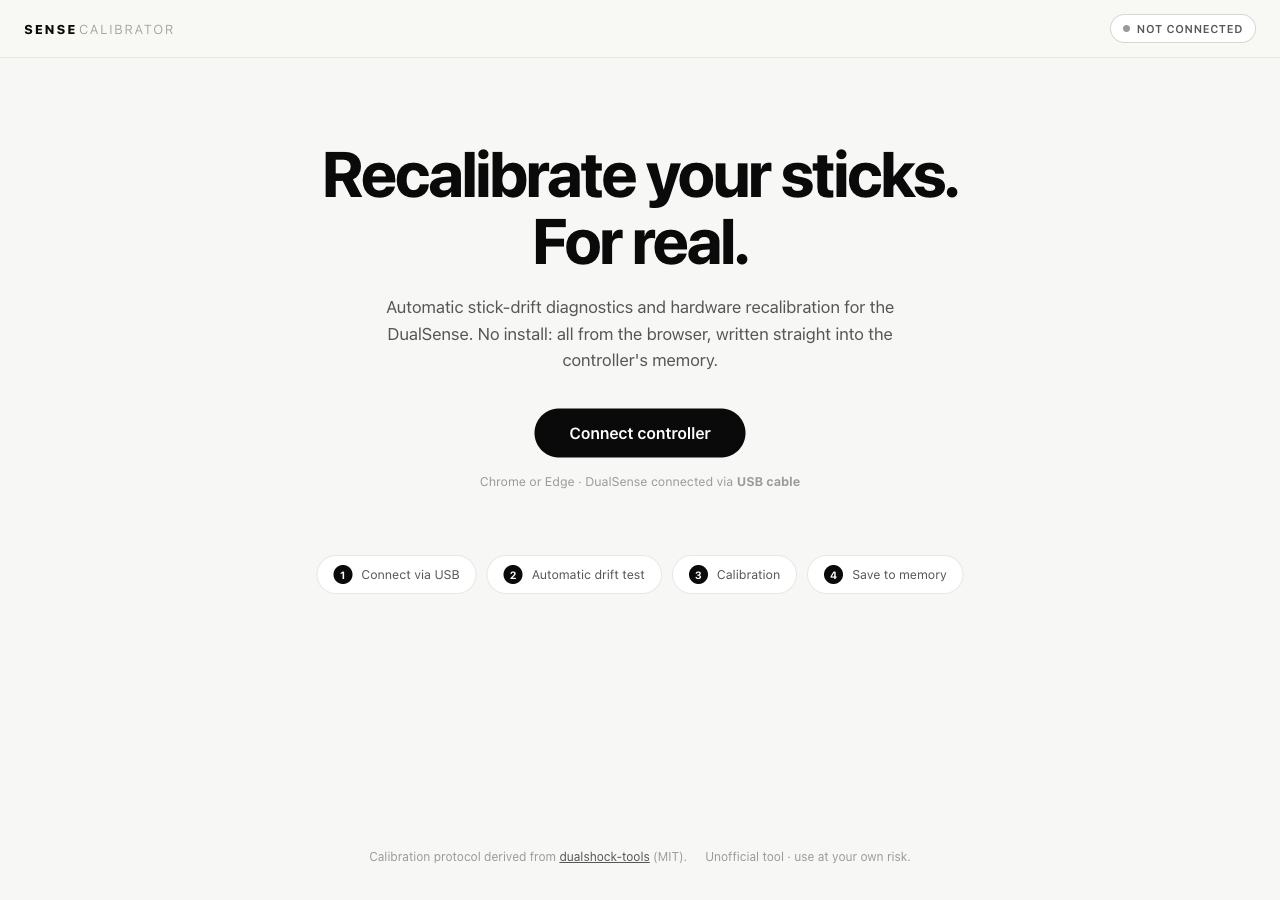
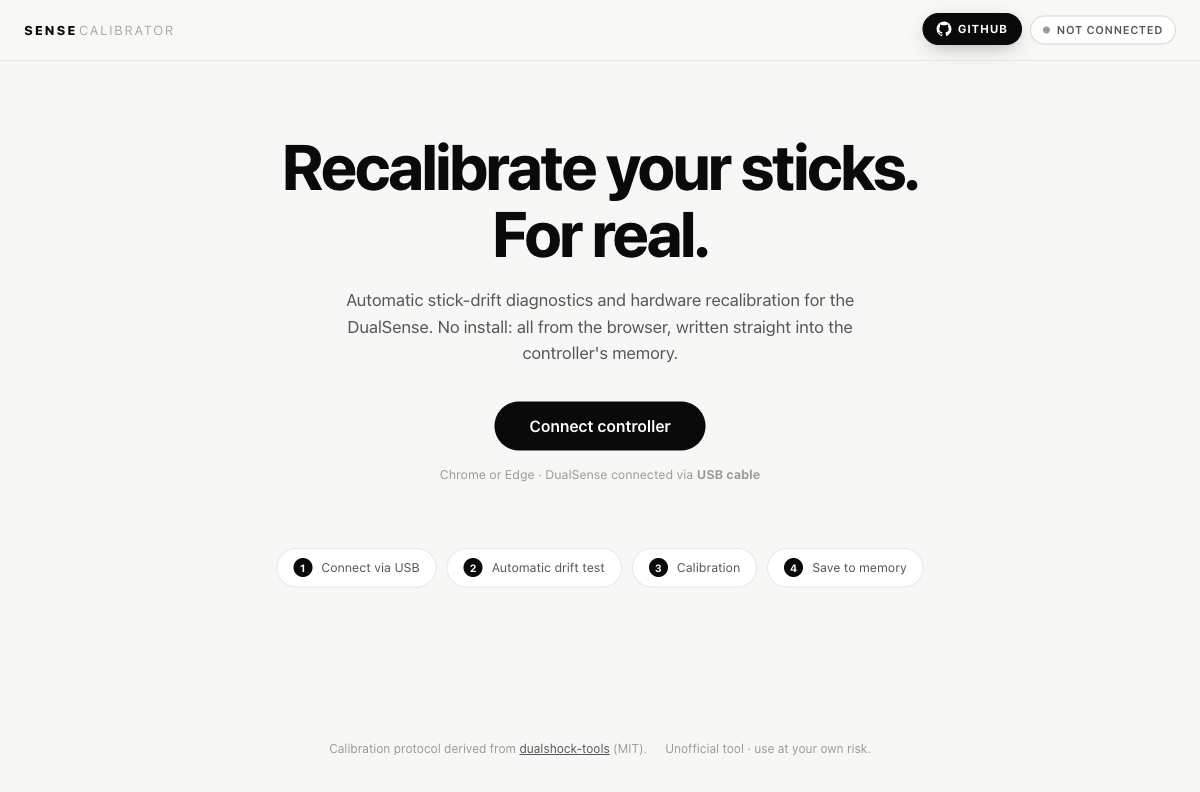
feat: add a GitHub source button to the app header
Evident dark pill (octocat + "GitHub") in the topbar linking to the repo,
so the hosted tool points back to its source. Refresh the landing screenshot.

diff --git a/css/style.css b/css/style.css
@@ -96,6 +96,27 @@ main {
 .chip.chip-on { color: var(--ink); border-color: var(--ink); }
 .chip.chip-warn { background: var(--ink); color: #fff; border-color: var(--ink); }
 
+.gh-chip {
+  display: inline-flex;
+  align-items: center;
+  gap: 6px;
+  padding: 6px 13px;
+  border-radius: 999px;
+  background: var(--ink);
+  color: #fff;
+  border: 1px solid var(--ink);
+  font-size: 11.5px;
+  font-weight: 700;
+  letter-spacing: 0.06em;
+  text-transform: uppercase;
+  text-decoration: none;
+  white-space: nowrap;
+  transition: transform 0.18s var(--ease), box-shadow 0.18s var(--ease);
+}
+.gh-chip svg { width: 15px; height: 15px; fill: currentColor; }
+.gh-chip:hover { transform: translateY(-1px); box-shadow: 0 6px 20px -6px rgba(0, 0, 0, 0.35); }
+.gh-chip:focus-visible { outline: 2px solid var(--ink); outline-offset: 3px; }
+
 .dot {
   width: 7px;
   height: 7px;

diff --git a/index.html b/index.html
@@ -13,6 +13,10 @@
 <header class="topbar">
   <a class="wordmark" href="#">SENSE<span>CALIBRATOR</span></a>
   <div class="topbar-status">
+    <a class="gh-chip" href="https://github.com/martino-vigiani/sense-calibrator" target="_blank" rel="noopener" aria-label="View source on GitHub">
+      <svg viewBox="0 0 16 16" aria-hidden="true"><path d="M8 0C3.58 0 0 3.58 0 8c0 3.54 2.29 6.53 5.47 7.59.4.07.55-.17.55-.38 0-.19-.01-.82-.01-1.49-2.01.37-2.53-.49-2.69-.94-.09-.23-.48-.94-.82-1.13-.28-.15-.68-.52-.01-.53.63-.01 1.08.58 1.23.82.72 1.21 1.87.87 2.33.66.07-.52.28-.87.51-1.07-1.78-.2-3.64-.89-3.64-3.95 0-.87.31-1.59.82-2.15-.08-.2-.36-1.02.08-2.12 0 0 .67-.21 2.2.82.64-.18 1.32-.27 2-.27.68 0 1.36.09 2 .27 1.53-1.04 2.2-.82 2.2-.82.44 1.1.16 1.92.08 2.12.51.56.82 1.27.82 2.15 0 3.07-1.87 3.75-3.65 3.95.29.25.54.73.54 1.48 0 1.07-.01 1.93-.01 2.2 0 .21.15.46.55.38A8.013 8.013 0 0016 8c0-4.42-3.58-8-8-8z"></path></svg>
+      GitHub
+    </a>
     <span id="chip-battery" class="chip hidden"></span>
     <span id="chip-nvs" class="chip hidden" title="State of the controller's non-volatile memory"></span>
     <span id="chip-conn" class="chip"><i class="dot" id="conn-dot"></i><span id="chip-conn-text">Not connected</span></span>